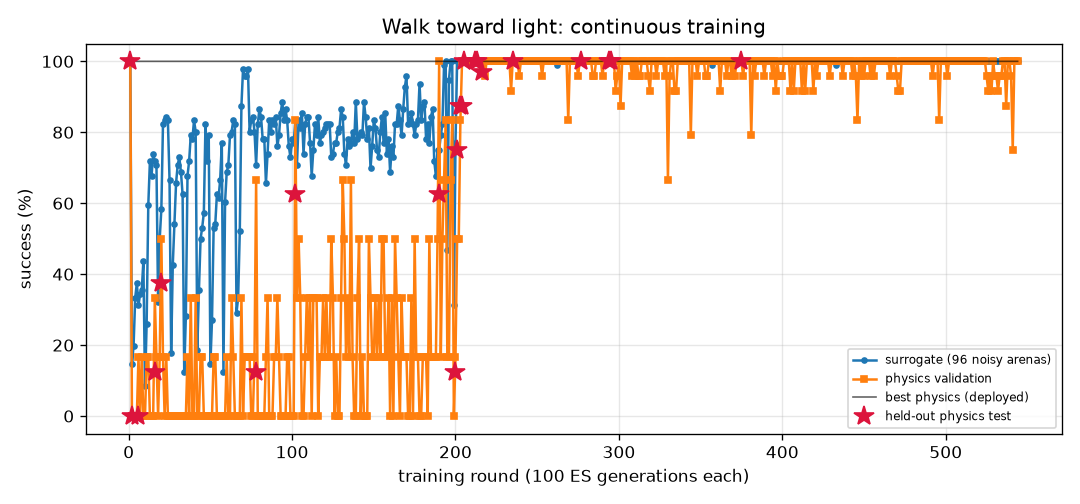
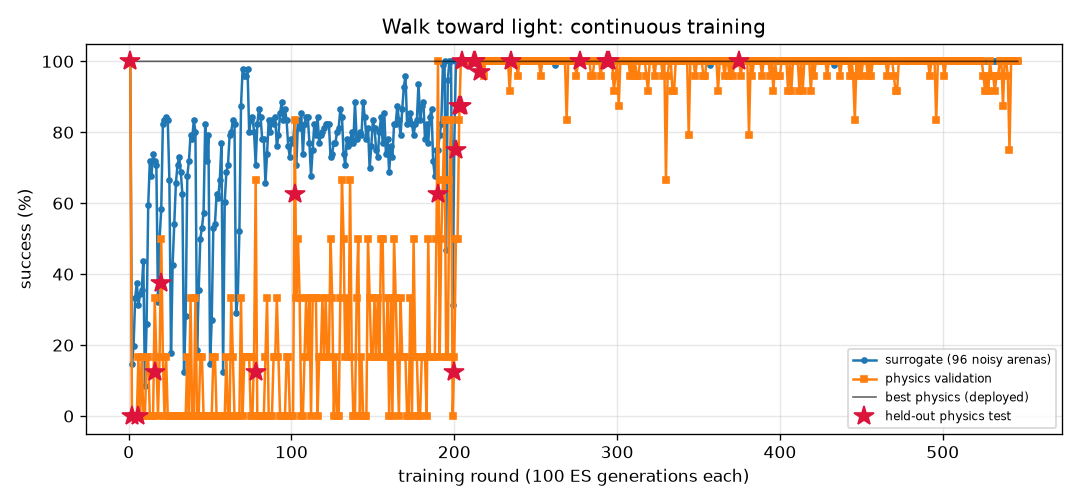
FlyLab: daily snapshot 2026-11-20
Daily entry in projects/09_flylab/training/daily/2026-11.md, plus 12 uncommitted training output file(s).

diff --git a/projects/09_flylab/training/goto/REPORT.md b/projects/09_flylab/training/goto/REPORT.md
@@ -1,14 +1,14 @@
 # Go to a location (`goto`) — training report
 
-*Auto-generated by `train_brains.py`, last updated 2026-11-20T00:03:25.*
+*Auto-generated by `train_brains.py`, last updated 2026-11-20T00:40:32.*
 
 ![curve](curve.png)
 
 | | |
 |---|---|
-| rounds | 342 |
-| ES generations | 34200 |
-| physics runs | 8158 |
+| rounds | 344 |
+| ES generations | 34400 |
+| physics runs | 8206 |
 | status | **optimal** |
 | best brain | round 176: physics validation **100%** on 24 arenas, surrogate 100% |
 | held-out physics test | **100%** on 32 unseen arenas (95% CI 89%-100%) (errors: [0.2, 0.32, 0.19, 0.24, 0.18, 0.2, 0.19, 0.17, 0.22, 0.23, 0.23, 0.26, 0.2, 0.19, 0.24, 0.23, 0.22, 0.24, 0.2, 0.22, 0.2, 0.2, 0.26, 0.19, 0.22, 0.18, 0.26, 0.22, 0.2, 0.26, 0.23, 0.23]) |
@@ -17,8 +17,6 @@ Physics error per arena: mm from target at the end (< 1.5 and standing still = s
 
 | round | level | gens | sigma | surrogate | physics val | val errors | test | note |
 |---:|---:|---:|---:|---:|---:|---|---:|---|
-| 303 | 3 | 30300 | 0.024 | 100% | 100% | [0.44, 0.44, 0.27, 0.32, 0.28, 0.29, 0.41, 0.35, 0.34, 0.3, 0.27, 0.33, 0.36, 0.3, 0.4, 0.38, 0.46, 0.32, 0.27, 0.36, 0.35, 0.32, 0.4, 0.3] |  |  |
-| 304 | 3 | 30400 | 0.024 | 100% | 100% | [0.42, 0.45, 0.46, 0.35, 0.32, 0.36, 0.36, 0.42, 0.4, 0.29, 0.3, 0.33, 0.41, 0.33, 0.37, 0.35, 0.43, 0.34, 0.3, 0.39, 0.36, 0.3, 0.41, 0.34] |  | restart from best |
 | 305 | 3 | 30500 | 0.024 | 99% | 100% | [0.42, 0.36, 0.26, 0.32, 0.27, 0.29, 0.42, 0.32, 0.34, 0.29, 0.26, 0.33, 0.39, 0.28, 0.36, 0.34, 0.43, 0.29, 0.27, 0.4, 0.31, 0.33, 0.39, 0.31] |  |  |
 | 306 | 3 | 30600 | 0.025 | 95% | 100% | [0.3, 0.36, 0.31, 0.26, 0.24, 0.3, 0.29, 0.3, 0.29, 0.21, 0.23, 0.25, 0.32, 0.27, 0.29, 0.29, 0.31, 0.27, 0.23, 0.27, 0.29, 0.21, 0.33, 0.29] |  |  |
 | 307 | 3 | 30700 | 0.027 | 99% | 100% | [0.41, 0.45, 0.36, 0.41, 0.35, 0.41, 0.42, 0.45, 0.46, 0.35, 0.36, 0.39, 0.44, 0.41, 0.41, 0.38, 0.43, 0.39, 0.33, 0.41, 0.38, 0.35, 0.45, 0.44] |  |  |
@@ -57,3 +55,5 @@ Physics error per arena: mm from target at the end (< 1.5 and standing still = s
 | 340 | 3 | 34000 | 0.025 | 100% | 100% | [0.43, 0.45, 0.33, 0.39, 0.31, 0.39, 0.41, 0.37, 0.46, 0.31, 0.32, 0.38, 0.44, 0.36, 0.41, 0.37, 0.46, 0.38, 0.31, 0.41, 0.36, 0.32, 0.46, 0.41] |  | restart from best |
 | 341 | 3 | 34100 | 0.024 | 100% | 100% | [0.35, 0.37, 0.37, 0.32, 0.25, 0.32, 0.32, 0.38, 0.34, 0.26, 0.25, 0.29, 0.36, 0.29, 0.3, 0.32, 0.37, 0.32, 0.25, 0.34, 0.29, 0.26, 0.38, 0.33] |  |  |
 | 342 | 3 | 34200 | 0.024 | 99% | 100% | [0.57, 0.51, 0.54, 0.5, 0.38, 0.45, 0.56, 0.49, 0.56, 0.4, 0.42, 0.48, 0.57, 0.38, 0.43, 0.46, 0.58, 0.44, 0.4, 0.53, 0.43, 0.42, 0.56, 0.48] |  |  |
+| 343 | 3 | 34300 | 0.025 | 100% | 100% | [0.44, 0.42, 0.39, 0.37, 0.31, 0.36, 0.45, 0.36, 0.42, 0.32, 0.34, 0.36, 0.41, 0.28, 0.4, 0.36, 0.44, 0.36, 0.34, 0.4, 0.34, 0.31, 0.4, 0.37] |  |  |
+| 344 | 3 | 34400 | 0.024 | 100% | 100% | [0.54, 0.52, 0.55, 0.51, 0.41, 0.48, 0.54, 0.51, 0.54, 0.42, 0.43, 0.48, 0.53, 0.41, 0.45, 0.48, 0.55, 0.49, 0.42, 0.52, 0.46, 0.44, 0.54, 0.5] |  | restart from best |

diff --git a/projects/09_flylab/training/light_seek/REPORT.md b/projects/09_flylab/training/light_seek/REPORT.md
@@ -1,14 +1,14 @@
 # Walk toward light (`light_seek`) — training report
 
-*Auto-generated by `train_brains.py`, last updated 2026-11-20T00:03:32.*
+*Auto-generated by `train_brains.py`, last updated 2026-11-20T00:41:36.*
 
 ![curve](curve.png)
 
 | | |
 |---|---|
-| rounds | 544 |
-| ES generations | 54400 |
-| physics runs | 9936 |
+| rounds | 546 |
+| ES generations | 54600 |
+| physics runs | 9984 |
 | status | **optimal** |
 | best brain | round 375: physics validation **100%** on 24 arenas, surrogate 100% |
 | held-out physics test | **100%** on 32 unseen arenas (95% CI 89%-100%) (errors: [0.57, 0.54, 0.53, 0.57, 0.55, 0.56, 0.59, 0.56, 0.53, 0.56, 0.71, 0.56, 0.55, 0.54, 0.53, 0.54, 0.54, 0.55, 0.52, 0.65, 0.64, 0.7, 0.58, 0.57, 0.6, 0.62, 0.55, 0.88, 0.54, 0.52, 0.62, 0.57]) |
@@ -17,8 +17,6 @@ Physics error per arena: mm from target at the end (< 1.5 and standing still = s
 
 | round | level | gens | sigma | surrogate | physics val | val errors | test | note |
 |---:|---:|---:|---:|---:|---:|---|---:|---|
-| 505 | 3 | 50500 | 0.024 | 100% | 100% | [0.52, 0.54, 0.53, 0.62, 0.53, 0.52, 0.54, 0.52, 0.54, 0.52, 0.5, 0.54, 0.53, 0.52, 0.55, 0.55, 0.59, 0.52, 0.6, 0.52, 0.59, 0.51, 0.55, 0.54] |  |  |
-| 506 | 3 | 50600 | 0.024 | 100% | 100% | [0.61, 0.53, 0.51, 0.49, 0.49, 0.49, 0.49, 0.5, 0.52, 0.53, 0.71, 0.52, 0.54, 0.55, 0.57, 0.59, 0.5, 0.5, 0.6, 0.7, 0.53, 0.53, 0.95, 0.49] |  |  |
 | 507 | 3 | 50700 | 0.024 | 100% | 100% | [0.73, 0.53, 0.6, 0.55, 0.72, 0.77, 0.64, 0.59, 0.56, 0.6, 0.6, 0.58, 0.62, 0.61, 0.54, 0.62, 0.57, 0.6, 0.62, 0.59, 0.55, 0.53, 0.59, 0.66] |  | restart from best |
 | 508 | 3 | 50800 | 0.024 | 100% | 100% | [0.7, 0.82, 0.72, 0.79, 0.68, 0.77, 0.6, 0.7, 1.2, 0.73, 0.67, 0.68, 0.92, 0.82, 1.07, 0.7, 0.62, 0.73, 0.67, 0.65, 0.79, 0.61, 0.71, 0.84] |  |  |
 | 509 | 3 | 50900 | 0.024 | 100% | 100% | [0.74, 0.63, 0.78, 0.7, 0.91, 0.76, 0.7, 0.81, 1.26, 0.74, 0.74, 0.76, 0.9, 0.86, 0.67, 0.68, 0.71, 0.64, 0.71, 0.7, 0.7, 0.63, 0.7, 0.7] |  |  |
@@ -57,3 +55,5 @@ Physics error per arena: mm from target at the end (< 1.5 and standing still = s
 | 542 | 3 | 54200 | 0.024 | 100% | 100% | [0.51, 0.52, 0.51, 0.5, 0.57, 0.96, 0.49, 1.38, 0.66, 0.5, 0.51, 0.55, 0.5, 0.51, 0.51, 0.49, 0.56, 0.54, 0.51, 0.51, 0.52, 0.51, 0.52, 0.53] |  |  |
 | 543 | 3 | 54300 | 0.024 | 100% | 100% | [0.45, 0.48, 0.44, 0.44, 0.46, 0.56, 0.66, 0.44, 0.46, 0.45, 0.51, 0.48, 0.46, 0.51, 0.49, 0.52, 0.47, 0.51, 0.56, 0.47, 0.5, 0.47, 0.45, 0.48] |  | restart from best |
 | 544 | 3 | 54400 | 0.024 | 100% | 100% | [0.54, 0.55, 0.62, 0.54, 0.56, 0.56, 0.56, 0.6, 0.58, 0.53, 0.55, 0.55, 0.57, 0.54, 0.53, 0.61, 0.67, 0.53, 0.53, 0.6, 0.61, 0.54, 0.69, 0.68] |  |  |
+| 545 | 3 | 54500 | 0.024 | 100% | 100% | [0.51, 0.73, 0.59, 0.62, 0.65, 0.48, 0.57, 0.48, 0.72, 0.48, 0.71, 0.59, 0.71, 0.53, 0.6, 0.58, 0.54, 0.5, 0.63, 0.56, 0.57, 0.56, 0.47, 0.62] |  |  |
+| 546 | 3 | 54600 | 0.024 | 100% | 100% | [0.53, 0.57, 0.65, 0.65, 0.51, 0.92, 0.58, 0.57, 0.54, 0.53, 0.61, 0.57, 0.64, 0.69, 0.68, 1.1, 0.52, 0.6, 0.58, 0.52, 0.6, 0.6, 0.62, 0.53] |  |  |

diff --git a/projects/09_flylab/training/TRAINING.md b/projects/09_flylab/training/TRAINING.md
@@ -1,6 +1,6 @@
 # FlyLab brains — continuous training log
 
-*Auto-generated by `train_brains.py`, last updated 2026-11-20T00:03:32.*
+*Auto-generated by `train_brains.py`, last updated 2026-11-20T00:41:36.*
 
 Every skill has its own brain and its own training process: surrogate ES rounds, physics validation in MuJoCo, keep-the-best selection, and a held-out physics test that is never used for selection. See each skill's report for its full round-by-round history. Mastery is progressive: passing a level (100% physics validation, >=95% surrogate) doubles the validation and test arena sets; a brain is **optimal** once it holds up at level 3 (>=95% of 24 validation arenas) AND scores >=90% on the 32 held-out test arenas. Test columns show 95% Wilson confidence intervals.
 
@@ -8,8 +8,8 @@ Every skill has its own brain and its own training process: surrogate ES rounds,
 |---|---:|---:|---:|---:|---:|---:|---|
 | [Walk forward](walk_forward/REPORT.md) | 444 | 44400 | 10702 | 99% | 100% of 24 | 100% of 32 (CI 89-100%) | **optimal** |
 | [Turn in place](turn/REPORT.md) | 1183 | 118300 | 28638 | 100% | 100% of 24 | 97% of 32 (CI 84-99%) | **optimal** |
-| [Go to a location](goto/REPORT.md) | 342 | 34200 | 8158 | 100% | 100% of 24 | 100% of 32 (CI 89-100%) | **optimal** |
+| [Go to a location](goto/REPORT.md) | 344 | 34400 | 8206 | 100% | 100% of 24 | 100% of 32 (CI 89-100%) | **optimal** |
 | [Find food by smell](odor_seek/REPORT.md) | 276 | 27600 | 6118 | 100% | 100% of 24 | 100% of 32 (CI 89-100%) | **optimal** |
 | [Escape a bad smell](odor_avoid/REPORT.md) | 1014 | 101400 | 21642 | 97% | 100% of 24 | 97% of 32 (CI 84-99%) | **optimal** |
-| [Walk toward light](light_seek/REPORT.md) | 544 | 54400 | 9936 | 100% | 100% of 24 | 100% of 32 (CI 89-100%) | **optimal** |
+| [Walk toward light](light_seek/REPORT.md) | 546 | 54600 | 9984 | 100% | 100% of 24 | 100% of 32 (CI 89-100%) | **optimal** |
 | [Hide from light](light_avoid/REPORT.md) | 731 | 73100 | 17816 | 100% | 100% of 24 | 100% of 32 (CI 89-100%) | **optimal** |

diff --git a/projects/09_flylab/training/daily/2026-11.md b/projects/09_flylab/training/daily/2026-11.md
@@ -181,3 +181,18 @@ Written by daily_commit.py once a day.
 
 - training supervisor: running
 - commits in the last 24 h: 18 (latest `8f4f664 01:19 FlyLab: continuous training progress`)
+
+## 2026-11-20 (Fri)
+
+| brain | state | level | physics val | test | round |
+|---|---|---|---|---|---|
+| walk_forward | optimal | 3 | 100% of 24 | 100% | 444 |
+| turn | optimal | 3 | 100% of 24 | 97% | 1183 |
+| goto | optimal | 3 | 100% of 24 | 100% | 344 |
+| odor_seek | optimal | 3 | 100% of 24 | 100% | 276 |
+| odor_avoid | optimal | 3 | 100% of 24 | 97% | 1014 |
+| light_seek | optimal | 3 | 100% of 24 | 100% | 546 |
+| light_avoid | optimal | 3 | 100% of 24 | 100% | 731 |
+
+- training supervisor: **not running**
+- commits in the last 24 h: 10 (latest `30bdace 00:15 FlyLab: continuous training progress`)
